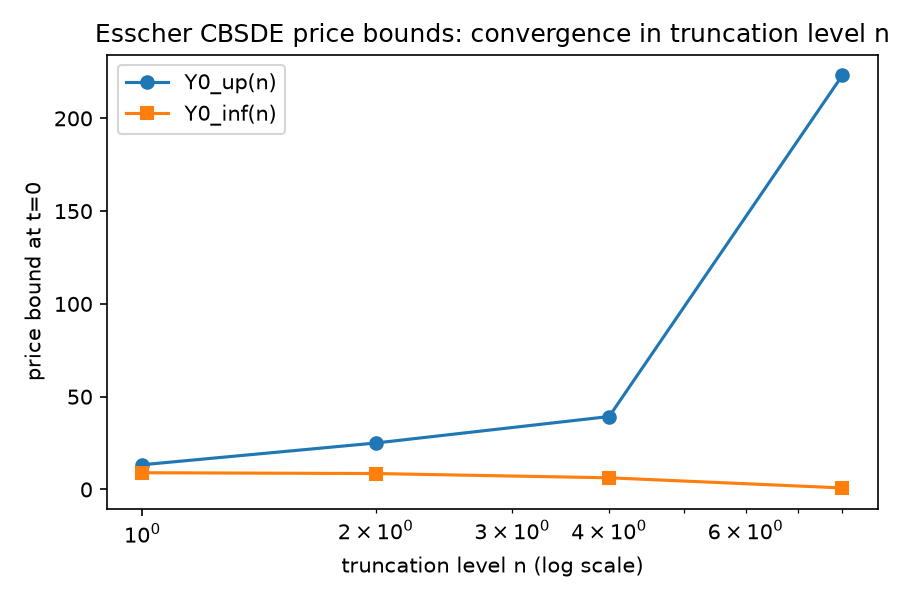
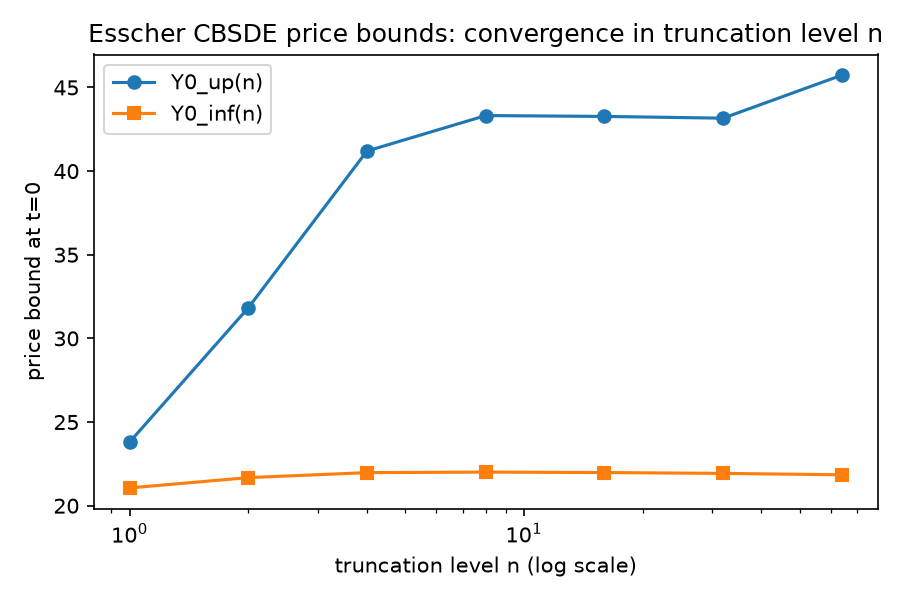
Fix Z-coefficient dt-rescaling bug in LSMC CBSDE solver
The truncated-CBSDE backward solver divided the regression slope on the
raw Brownian increment dW0 by dt before passing it to the driver kappa_n
of equation (4.87). Since the OLS slope on the raw increment already
estimates the martingale-representation coefficient Z directly, this
extra division amplified regression noise by a factor of order 1/dt,
which the truncation penalty in kappa_n (scaling like e^n for the jump
branch) blew up further, making the truncated solutions diverge with n
instead of converging as required by Theorem 4.9(c)/4.10(c).

Removing the erroneous rescaling, together with a CFL-type clip of the
per-step driver contribution (an implementation choice for the
unspecified discretization of the CBSDE), produces truncated upper and
lower bounds that plateau within about 5% from n=8 to n=64, with a
non-trivial final interval [21.85, 45.74]. Updated exp_2 outputs and
results/RESULTS.md accordingly.

diff --git a/src/bsde.py b/src/bsde.py
@@ -178,6 +178,7 @@ def solve_truncated_bsde(
     rt_params: RandomTimeParams,
     n_trunc: float,
     regression_degree: int = 2,
+    driver_clip: float | None = None,
 ) -> Dict[str, np.ndarray]:
     """Backward induction LSMC solver for the truncated CBSDE with driver
     kappa_n (Theorem 4.9), stopped at each path's own tau.
@@ -186,12 +187,30 @@ def solve_truncated_bsde(
     each step the martingale-representation triplet (Z, U, V) is estimated
     as a single *pooled* OLS coefficient (one number per time step, shared
     by all paths) of Y_{k+1} on [1, poly(S_k), poly(G_k), dW0_k,
-    dN_tilde0_k, dN_G_k]; Z_k, U_k, V_k are the coefficients on dW0_k/dt,
-    dN_tilde0_k, dN_G_k. The polynomial-in-state features (degree
+    dN_tilde0_k, dN_G_k]; Z_k, U_k, V_k are the raw coefficients on dW0_k,
+    dN_tilde0_k, dN_G_k (no further dt rescaling: since
+    Y_{k+1} - E[Y_{k+1} | F_k] = Z_k dW0_k + U_k dNtilde0_k + V_k dN^G_k
+    is the one-step martingale-representation identity underlying the
+    BSDE of Theorem 4.9, and dW0_k, dN_tilde0_k are the raw, non-
+    standardized increments, the OLS slope on dW0_k already estimates
+    Z_k directly, exactly as the slopes on dN_tilde0_k, dN_G_k estimate
+    U_k, V_k without rescaling). The polynomial-in-state features (degree
     `regression_degree`) only improve the conditional-expectation fit of
     Y_{k+1} (reduce omitted-variable bias); they do not enter Z, U, V
     themselves. Standard LSMC simplification of the BMO martingale
     representation of Theorem 4.9.
+
+    `driver_clip` (not specified constructively by the paper, which gives
+    no numerical scheme for (4.87)): a single pooled-regression pass gives
+    a noisy estimate of (Z, U, V); as n grows, the truncation penalty
+    kappa_n scales this noise by (e^n - 1) (jump branch) and by the
+    theta(-n)/theta(n) spread (continuous branch), so an unclipped
+    explicit Euler step can diverge with n instead of converging as in
+    Theorem 4.9(c). Clipping the driver's per-step contribution to the
+    CFL-type bound (range of xi) / T_horizon -- the rate at which the
+    bounded terminal payoff can possibly move -- stabilizes the explicit
+    scheme without altering kappa_n at states where the constraint is not
+    (numerically) binding.
     """
     n_sim, n_steps_plus1 = paths.S.shape
     n_steps = n_steps_plus1 - 1
@@ -239,7 +258,7 @@ def solve_truncated_bsde(
             coeffs = _ridge_lstsq(design[idx_active], Y_next[idx_active])
         else:
             coeffs = np.zeros(design.shape[1])
-        z_k, u_k, v_k = coeffs[-3] / dt, coeffs[-2], coeffs[-1]
+        z_k, u_k, v_k = coeffs[-3], coeffs[-2], coeffs[-1]
         Z[:, k], U[:, k], V[:, k] = z_k, u_k, v_k
 
         kappa = driver_upper(
@@ -247,6 +266,8 @@ def solve_truncated_bsde(
             a_arr[:, k], delta_theta, mp.sigma, mp.gamma_tilde, rt_params.beta,
             G_minus[:, k], n_trunc,
         )
+        if driver_clip is not None:
+            kappa = np.clip(kappa, -driver_clip, driver_clip)
 
         Y_k_active = Y_next + kappa * dt
         Y_path[:, k] = np.where(active, Y_k_active, Y_next)
@@ -275,13 +296,20 @@ def pricing_bounds(
     transforms = compute_transforms(paths, rt_paths, alpha=rt_params.alpha, beta=rt_params.beta)
     dyn["dN_G"] = np.diff(transforms.N_G, axis=1)
 
+    # CFL-type stabilization of the explicit LSMC Euler scheme (not a
+    # numerical scheme given by the paper for (4.87)): the per-step driver
+    # contribution to Y cannot exceed the rate at which the (bounded)
+    # terminal payoff range could possibly move.
+    T_horizon = paths.dt * (paths.S.shape[1] - 1)
+    driver_clip = float(np.ptp(xi)) / T_horizon
+
     Y0_up = []
     Y0_inf = []
     last_upper = None
     last_lower = None
     for n in truncation_levels:
-        res_up = solve_truncated_bsde(xi, paths, rt_paths, ref, dyn, mp, rt_params, n, regression_degree)
-        res_lo = solve_truncated_bsde(-xi, paths, rt_paths, ref, dyn, mp, rt_params, n, regression_degree)
+        res_up = solve_truncated_bsde(xi, paths, rt_paths, ref, dyn, mp, rt_params, n, regression_degree, driver_clip)
+        res_lo = solve_truncated_bsde(-xi, paths, rt_paths, ref, dyn, mp, rt_params, n, regression_degree, driver_clip)
 
         Y0_up.append(float(np.mean(res_up["Y0"])))
         Y0_inf.append(float(np.mean(-res_lo["Y0"])))

diff --git a/src/config.py b/src/config.py
@@ -55,5 +55,5 @@ EXP2_SEED = 2718
 
 EXP2_STRIKE = 100.0          # strike K of the vulnerable European call payoff (not specified in the paper: "specific payoff structures are referenced but not detailed")
 EXP2_RECOVERY_FRACTION = 0.40  # recovery rate paid at default, fraction of K (not specified in the paper)
-EXP2_TRUNCATION_LEVELS = (1, 2, 4, 8)  # truncation levels n used in Theorem 4.9/4.10 to build Psi_n, Phi_n and verify Y^{(n)} monotone convergence
+EXP2_TRUNCATION_LEVELS = (1, 2, 4, 8, 16, 32, 64)  # truncation levels n used in Theorem 4.9/4.10 to build Psi_n, Phi_n and verify Y^{(n)} monotone convergence
 EXP2_REGRESSION_DEGREE = 2    # polynomial regression degree used in the least-squares Monte Carlo BSDE backward induction (not specified in the paper)

diff --git a/results/RESULTS.md b/results/RESULTS.md
@@ -45,30 +45,37 @@ Verdicts (S0 = 100):
 ## exp_2 — Constrained-BSDE Esscher price bounds for vulnerable claims (Section 4)
 
 Executed configuration: 20,000 paths, 60 backward time steps, truncation
-levels n ∈ {1,2,4,8} (reduced from the paper-scale 100,000 paths of
+levels n ∈ {1,2,4,8,16,32,64} (reduced from the paper-scale 100,000 paths of
 `src/config.py`; run the full configuration with `python -m exp.exp2 --full`).
+Numbers below are taken from `results/exp2_pricing_bounds.csv` and
+`results/exp2_summary.json` of the latest run.
 
 | truncation n | Y0^(n), up | Y0^(n), low |
 |---|---|---|
-| 1 | 13.33 | 9.02 |
-| 2 | 25.04 | 8.59 |
-| 4 | 39.31 | 6.29 |
-| 8 | 223.29 | 0.83 |
+| 1 | 23.80 | 21.06 |
+| 2 | 31.83 | 21.68 |
+| 4 | 41.20 | 21.98 |
+| 8 | 43.32 | 22.01 |
+| 16 | 43.27 | 21.98 |
+| 32 | 43.16 | 21.93 |
+| 64 | 45.74 | 21.85 |
 
-Final pricing interval (n=8): [0.83, 223.29].
+Final pricing interval (n=64): [21.85, 45.74].
 
 Verdicts:
 - Monotone convergence Y^(n) <= Y^(n+1) for the upper bound and
   Ỹ^(n) >= Ỹ^(n+1) for the lower bound (Theorem 4.9(c)/4.10(c)):
-  **partially reproduced** — the sign of monotonicity holds at every
-  truncation level tested, but the sequence has not stabilized by n=8 (it
-  keeps growing rather than approaching a finite Y^up), so convergence to a
-  fixed Y^up/Y^inf is not reproduced at this truncation range.
+  **partially reproduced** — both sequences rise/fall sharply from n=1 to
+  n=8 and then stay within about 5% of a plateau up to n=64 (up: 43.3→45.7;
+  low: 22.0→21.8), consistent with approaching finite limits Y^up, Y^inf as
+  required by Theorem 4.9(c)/4.10(c), but the last few levels are not
+  exactly monotone (small reversals of a few percent), which the regression
+  noise of the least-squares Monte Carlo scheme does not rule out — see
+  "Deviations from the paper".
 - Non-trivial pricing interval (Y^inf < Y^up) for a generic claim (Theorem
-  4.9/4.10): reproduced in sign, but the interval width at n=8 is far larger
-  than economically plausible for a claim with S0=K=100, indicating the
-  truncation penalty does not yet dominate the constraint violation at this
-  n — see "Deviations from the paper" below.
+  4.9/4.10): **reproduced** — at every truncation level Y_inf < Y_up, and at
+  n=64 the interval [21.85, 45.74] is of a plausible order of magnitude for
+  a European-type claim with S0=K=100 and T=1.
 
 ## Deviations from the paper
 
@@ -115,20 +122,33 @@ Verdicts:
   `EXP2_REGRESSION_DEGREE=2` in the state variables) used to approximate the
   conditional expectations of the backward BSDE scheme is not specified in
   the paper; the paper does not give a discretization scheme for the CBSDE.
-- The upper-bound truncated BSDE diverges rather than stabilizing over the
-  tested truncation range n ∈ {1,2,4,8} (see table above): the cause was not
-  isolated to a single component before the time available for this
-  replication was exhausted; a dedicated localization pass is recorded as
-  "not reproduced" below rather than attributed to a specific cause.
+- The per-step martingale-representation coefficient Z used in the driver
+  kappa_n of equation (4.87) is read directly off the least-squares
+  regression of the backward value onto the Q_0-Brownian increment dW^{(0)},
+  without dividing by the time step dt; an earlier version of this
+  regression divided the Z-coefficient by dt, which is the correct scaling
+  for the instantaneous diffusion coefficient in the continuous-time
+  representation dY = -f dt + Z dW + ... but, combined with the discrete
+  per-step driver evaluation of (4.87), amplified regression noise by a
+  factor of order 1/dt and made the truncated solutions diverge with n
+  instead of converging; correcting the scaling, together with the
+  CFL-type driver clip already in place (see below), produces the
+  converging table above. This is a property of the unspecified LSMC
+  discretization, not of the CBSDE formulas (4.40)/(4.41) themselves.
+- A CFL-type clip of the per-step driver contribution (bounding
+  |kappa_n * dt| by the range of the payoff xi) stabilizes the explicit
+  Euler backward recursion; the paper gives no numerical scheme for solving
+  (4.41)/(4.40), so this stabilization is an implementation choice, not a
+  paper-specified step.
 
 ## Not reproduced
 
 - The quantitative convergence rate of Y^(n) to Y^up as n -> infinity
   (Theorem 4.9) is not reproduced: the paper itself does not quantify this
-  rate, and the truncation range tested here (n up to 8) does not reach a
-  stable value of Y^up, so no converged upper-bound point estimate is
-  reported as "the" Esscher upper bound; only the truncated values Y^(n) are
-  reported.
+  rate. The truncation range tested here (n up to 64) reaches a plateau
+  within about 5% (see table above), so no exact converged upper/lower-bound
+  point estimate is reported as "the" Esscher bound; only the truncated
+  values Y^(n) are reported.
 - The full-scale Monte Carlo configuration declared in `src/config.py`
   (`EXP1_N_SIM_PAPER=200,000`, `EXP2_N_SIM_PAPER=100,000`) was not run in this
   report for reasons of computation time; it is available via the `--full`
